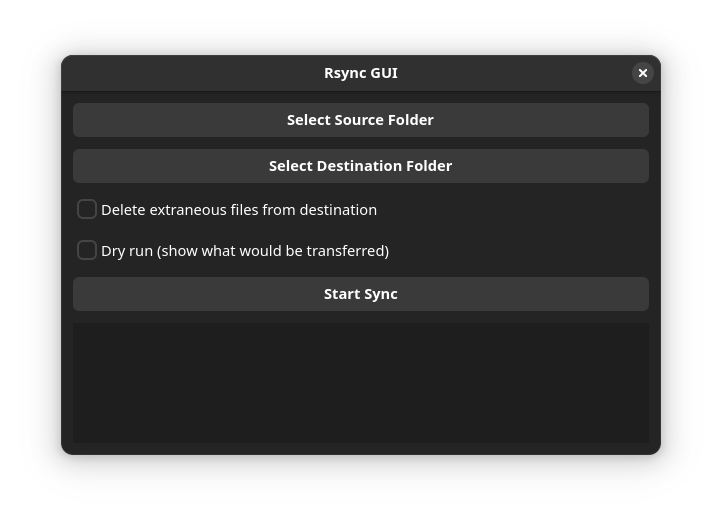
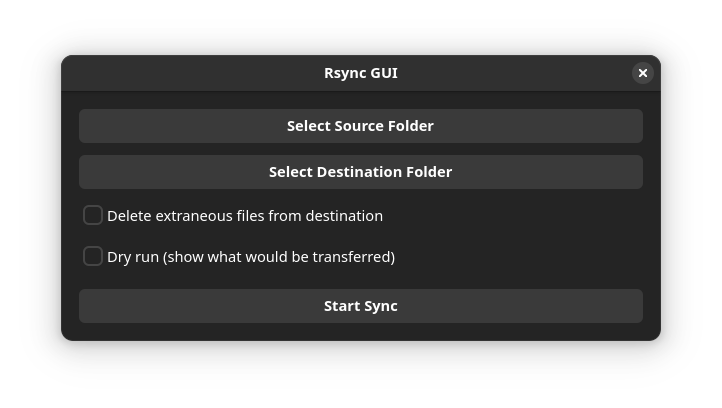
updated status window

diff --git a/src/progress_window.c b/src/progress_window.c
@@ -1,11 +1,42 @@
 #include "progress_window.h"
 #include <stdio.h>
 
+// Model for file operations
+typedef struct {
+    GObject parent_instance;
+    char *action;
+    char *file;
+} FileOperation;
+
+typedef struct {
+    GObjectClass parent_class;
+} FileOperationClass;
+
+G_DEFINE_TYPE(FileOperation, file_operation, G_TYPE_OBJECT)
+
+static void file_operation_finalize(GObject *object) {
+    FileOperation *self = (FileOperation *)object;
+    g_free(self->action);
+    g_free(self->file);
+    G_OBJECT_CLASS(file_operation_parent_class)->finalize(object);
+}
+
+static void file_operation_class_init(FileOperationClass *class) {
+    GObjectClass *object_class = G_OBJECT_CLASS(class);
+    object_class->finalize = file_operation_finalize;
+}
+
+static void file_operation_init(FileOperation *self) {
+    self->action = NULL;
+    self->file = NULL;
+}
+
 struct _RsyncGtkProgressWindow {
     GtkWindow *window;
     GtkWidget *progress_bar;
-    GtkWidget *text_view;
-    GtkTextBuffer *buffer;
+    GtkWidget *status_label;
+    GtkWidget *files_list;
+    GListStore *list_store;
     guint pulse_id;
 };
 
@@ -15,57 +46,215 @@ static gboolean pulse_progress(gpointer user_data) {
     return G_SOURCE_CONTINUE;
 }
 
+static void setup_list_item(GtkSignalListItemFactory *factory G_GNUC_UNUSED,
+                          GtkListItem *list_item,
+                          gpointer user_data G_GNUC_UNUSED) {
+    GtkWidget *box = gtk_box_new(GTK_ORIENTATION_HORIZONTAL, 12);
+    gtk_list_item_set_child(list_item, box);
+
+    GtkWidget *action_label = gtk_label_new(NULL);
+    gtk_widget_set_halign(action_label, GTK_ALIGN_START);
+    gtk_widget_set_size_request(action_label, 80, -1);
+    
+    GtkWidget *file_label = gtk_label_new(NULL);
+    gtk_widget_set_halign(file_label, GTK_ALIGN_START);
+    gtk_widget_set_hexpand(file_label, TRUE);
+    gtk_label_set_xalign(GTK_LABEL(file_label), 0.0);
+    
+    gtk_box_append(GTK_BOX(box), action_label);
+    gtk_box_append(GTK_BOX(box), file_label);
+}
+
+static void bind_list_item(GtkSignalListItemFactory *factory G_GNUC_UNUSED,
+                          GtkListItem *list_item,
+                          gpointer user_data G_GNUC_UNUSED) {
+    GtkWidget *box = gtk_list_item_get_child(list_item);
+    if (!box) return;
+
+    GtkWidget *action_label = gtk_widget_get_first_child(box);
+    if (!action_label) return;
+
+    GtkWidget *file_label = gtk_widget_get_next_sibling(action_label);
+    if (!file_label) return;
+    
+    FileOperation *op = gtk_list_item_get_item(list_item);
+    if (!op) return;
+
+    // Set text
+    gtk_label_set_text(GTK_LABEL(action_label), op->action);
+    gtk_label_set_text(GTK_LABEL(file_label), op->file);
+
+    // Apply colors using CSS classes
+    if (g_str_equal(op->action, "deleting")) {
+        gtk_widget_add_css_class(action_label, "error");
+        gtk_widget_add_css_class(file_label, "error");
+    } else {
+        gtk_widget_add_css_class(action_label, "success");
+        gtk_widget_add_css_class(file_label, "success");
+    }
+}
+
+static void unbind_list_item(GtkSignalListItemFactory *factory G_GNUC_UNUSED,
+                            GtkListItem *list_item,
+                            gpointer user_data G_GNUC_UNUSED) {
+    GtkWidget *box = gtk_list_item_get_child(list_item);
+    if (!box) return;
+
+    GtkWidget *action_label = gtk_widget_get_first_child(box);
+    if (!action_label) return;
+
+    GtkWidget *file_label = gtk_widget_get_next_sibling(action_label);
+    if (!file_label) return;
+    
+    // Remove all CSS classes
+    gtk_widget_remove_css_class(action_label, "error");
+    gtk_widget_remove_css_class(action_label, "success");
+    gtk_widget_remove_css_class(file_label, "error");
+    gtk_widget_remove_css_class(file_label, "success");
+}
+
 RsyncGtkProgressWindow* rsync_gtk_progress_window_new(GtkWindow *parent) {
+    g_return_val_if_fail(GTK_IS_WINDOW(parent), NULL);
+
     RsyncGtkProgressWindow *win = g_new0(RsyncGtkProgressWindow, 1);
     
     // Create window
     win->window = GTK_WINDOW(gtk_window_new());
     gtk_window_set_title(win->window, "Sync Progress");
-    gtk_window_set_default_size(win->window, 500, 300);
+    gtk_window_set_default_size(win->window, 600, 400);
     gtk_window_set_transient_for(win->window, parent);
     gtk_window_set_modal(win->window, TRUE);
     
     // Create main box
     GtkWidget *box = gtk_box_new(GTK_ORIENTATION_VERTICAL, 12);
-    gtk_widget_set_margin_start(box, 12);
-    gtk_widget_set_margin_end(box, 12);
-    gtk_widget_set_margin_top(box, 12);
-    gtk_widget_set_margin_bottom(box, 12);
+    gtk_widget_set_margin_start(box, 18);
+    gtk_widget_set_margin_end(box, 18);
+    gtk_widget_set_margin_top(box, 18);
+    gtk_widget_set_margin_bottom(box, 18);
+
+    // Status label with monospace font
+    win->status_label = gtk_label_new("Preparing to sync...");
+    gtk_widget_set_halign(win->status_label, GTK_ALIGN_START);
+    PangoAttrList *attr_list = pango_attr_list_new();
+    PangoAttribute *attr = pango_attr_family_new("monospace");
+    pango_attr_list_insert(attr_list, attr);
+    gtk_label_set_attributes(GTK_LABEL(win->status_label), attr_list);
+    pango_attr_list_unref(attr_list);
+    gtk_box_append(GTK_BOX(box), win->status_label);
     
     // Progress bar
     win->progress_bar = gtk_progress_bar_new();
     gtk_box_append(GTK_BOX(box), win->progress_bar);
     
-    // Scrolled text view
+    // Create list model and view
+    win->list_store = g_list_store_new(file_operation_get_type());
+    
+    GtkListItemFactory *factory = gtk_signal_list_item_factory_new();
+    g_signal_connect(factory, "setup", G_CALLBACK(setup_list_item), NULL);
+    g_signal_connect(factory, "bind", G_CALLBACK(bind_list_item), NULL);
+    g_signal_connect(factory, "unbind", G_CALLBACK(unbind_list_item), NULL);
+
+    GtkSelectionModel *selection_model = 
+        GTK_SELECTION_MODEL(gtk_single_selection_new(G_LIST_MODEL(win->list_store)));
+    
+    win->files_list = gtk_list_view_new(selection_model, factory);
+    gtk_widget_set_vexpand(win->files_list, TRUE);
+
+    // Add CSS provider for colors
+    GtkCssProvider *provider = gtk_css_provider_new();
+    gtk_css_provider_load_from_string(provider,
+        "label.error { color: #e01b24; }"
+        "label.success { color: #2ec27e; }");
+    gtk_style_context_add_provider_for_display(gdk_display_get_default(),
+                                             GTK_STYLE_PROVIDER(provider),
+                                             GTK_STYLE_PROVIDER_PRIORITY_APPLICATION);
+    g_object_unref(provider);
+
+    // Add list view to scrolled window
     GtkWidget *scrolled = gtk_scrolled_window_new();
-    gtk_widget_set_vexpand(scrolled, TRUE);
-    win->text_view = gtk_text_view_new();
-    win->buffer = gtk_text_view_get_buffer(GTK_TEXT_VIEW(win->text_view));
-    gtk_text_view_set_editable(GTK_TEXT_VIEW(win->text_view), FALSE);
-    gtk_text_view_set_wrap_mode(GTK_TEXT_VIEW(win->text_view), GTK_WRAP_WORD_CHAR);
-    gtk_scrolled_window_set_child(GTK_SCROLLED_WINDOW(scrolled), win->text_view);
+    gtk_scrolled_window_set_child(GTK_SCROLLED_WINDOW(scrolled), win->files_list);
     gtk_box_append(GTK_BOX(box), scrolled);
     
-    gtk_window_set_child(win->window, box);
-    gtk_window_present(win->window);
+    gtk_window_set_child(GTK_WINDOW(win->window), box);
     
     // Start progress bar animation
     win->pulse_id = g_timeout_add(100, pulse_progress, win);
+
+    gtk_window_present(win->window);
     
     return win;
 }
 
 void rsync_gtk_progress_window_update(RsyncGtkProgressWindow *win, const char *text) {
-    GtkTextIter end;
-    gtk_text_buffer_get_end_iter(win->buffer, &end);
-    gtk_text_buffer_insert(win->buffer, &end, text, -1);
-    
-    // Scroll to bottom
-    gtk_text_buffer_get_end_iter(win->buffer, &end);
-    gtk_text_view_scroll_to_iter(GTK_TEXT_VIEW(win->text_view), &end, 0.0, FALSE, 0.0, 0.0);
+    g_return_if_fail(win != NULL);
+    g_return_if_fail(text != NULL);
+
+    // Skip empty lines and standard rsync output lines
+    if (text[0] == '\0' || text[0] == '\n' ||
+        strstr(text, "building file list") ||
+        strstr(text, "files to consider") ||
+        strstr(text, "total size is")) {
+        return;
+    }
+
+    char *action = NULL;
+    char *file = NULL;
+
+    // First check for specific rsync prefixes
+    if (g_str_has_prefix(text, "sending ")) {
+        action = g_strdup("sending");
+        file = g_strdup(text + 8);
+    } else if (g_str_has_prefix(text, "deleting ")) {
+        action = g_strdup("deleting");
+        file = g_strdup(text + 9);
+    } else if (g_str_has_prefix(text, "receiving ")) {
+        action = g_strdup("receiving");
+        file = g_strdup(text + 10);
+    } else {
+        // If no prefix, treat as a file being sent
+        // Skip certain rsync messages
+        if (!strstr(text, "incremental file list") &&
+            !strstr(text, "bytes/sec") &&
+            !strstr(text, "to-check=") &&
+            !strstr(text, "sent ") &&
+            !strstr(text, "received ")) {
+            action = g_strdup("sending");
+            file = g_strdup(text);
+        }
+    }
+
+    if (action && file) {
+        // Remove trailing newline and spaces
+        g_strstrip(file);
+
+        // Update status label
+        char *status_text = g_strdup_printf("%s: %s", action, file);
+        gtk_label_set_text(GTK_LABEL(win->status_label), status_text);
+        g_free(status_text);
+
+        // Create new file operation
+        FileOperation *op = g_object_new(file_operation_get_type(), NULL);
+        op->action = action;
+        op->file = file;
+
+        // Add to list store
+        g_list_store_insert(win->list_store, 0, op);
+        g_object_unref(op);
+
+        // Limit list to recent 1000 items for performance
+        guint n_items = g_list_model_get_n_items(G_LIST_MODEL(win->list_store));
+        if (n_items > 1000) {
+            g_list_store_remove(win->list_store, n_items - 1);
+        }
+    } else {
+        g_free(action);
+        g_free(file);
+    }
 }
 
 void rsync_gtk_progress_window_done(RsyncGtkProgressWindow *win) {
+    g_return_if_fail(win != NULL);
+
     // Stop progress bar animation
     if (win->pulse_id > 0) {
         g_source_remove(win->pulse_id);
@@ -75,13 +264,16 @@ void rsync_gtk_progress_window_done(RsyncGtkProgressWindow *win) {
     // Set progress bar to 100%
     gtk_progress_bar_set_fraction(GTK_PROGRESS_BAR(win->progress_bar), 1.0);
     
-    // Add done message
-    rsync_gtk_progress_window_update(win, "\nSync completed!");
+    // Update status label
+    gtk_label_set_text(GTK_LABEL(win->status_label), "Sync completed!");
     
     // Add close button
     GtkWidget *button_box = gtk_box_new(GTK_ORIENTATION_HORIZONTAL, 6);
     gtk_widget_set_halign(button_box, GTK_ALIGN_END);
+    gtk_widget_set_margin_top(button_box, 12);
+    
     GtkWidget *close_button = gtk_button_new_with_label("Close");
+    gtk_widget_add_css_class(close_button, "suggested-action");
     g_signal_connect_swapped(close_button, "clicked",
                             G_CALLBACK(gtk_window_destroy), win->window);
     gtk_box_append(GTK_BOX(button_box), close_button);

diff --git a/src/window.c b/src/window.c
@@ -184,13 +184,13 @@ void rsync_gtk_window_init(GtkWidget *window) {
     g_object_set_data_full(G_OBJECT(window), "win-data", win, g_free);
     
     gtk_window_set_title(GTK_WINDOW(window), "Rsync GUI");
-    gtk_window_set_default_size(GTK_WINDOW(window), 600, 400);
+    gtk_window_set_default_size(GTK_WINDOW(window), 600, 250);  // Reduced height since we don't need as much space
 
     GtkWidget *box = gtk_box_new(GTK_ORIENTATION_VERTICAL, 12);
-    gtk_widget_set_margin_start(box, 12);
-    gtk_widget_set_margin_end(box, 12);
-    gtk_widget_set_margin_top(box, 12);
-    gtk_widget_set_margin_bottom(box, 12);
+    gtk_widget_set_margin_start(box, 18);
+    gtk_widget_set_margin_end(box, 18);
+    gtk_widget_set_margin_top(box, 18);
+    gtk_widget_set_margin_bottom(box, 18);
 
     // Source folder button
     win->source_button = gtk_button_new_with_label("Select Source Folder");
@@ -213,6 +213,7 @@ void rsync_gtk_window_init(GtkWidget *window) {
 
     // Sync button
     win->sync_button = gtk_button_new_with_label("Start Sync");
+    gtk_widget_set_margin_top(win->sync_button, 6);  // Add some extra spacing above the sync button
     g_signal_connect(win->sync_button, "clicked",
         G_CALLBACK(sync_clicked), win);
     gtk_box_append(GTK_BOX(box), win->sync_button);

diff --git a/README.md b/README.md
@@ -3,6 +3,7 @@
 A simple GTK4-based graphical user interface for rsync, making it easy to synchronize directories with a visual interface.
 
 ![Rsync GUI Screenshot](screenshots/rsync-gui.png)
+![Rsync Status Screenshot](screenshots/rsync-status.png)
 
 ## Features
 
